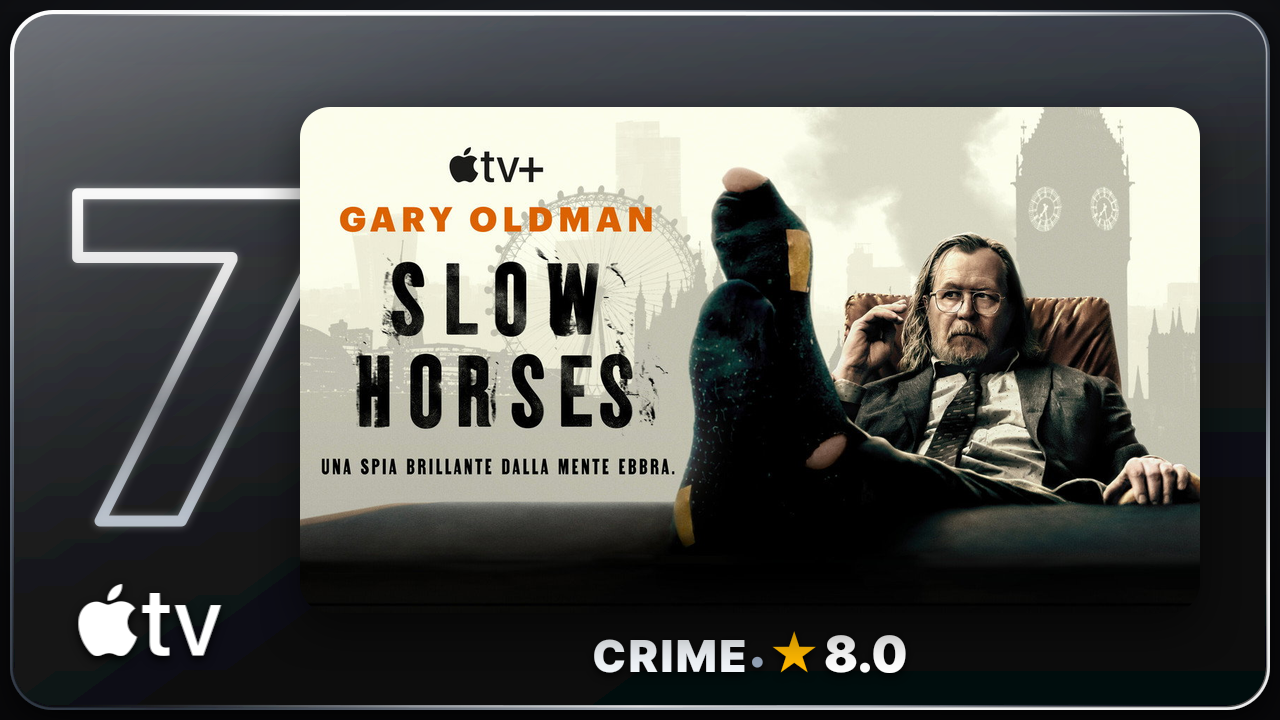
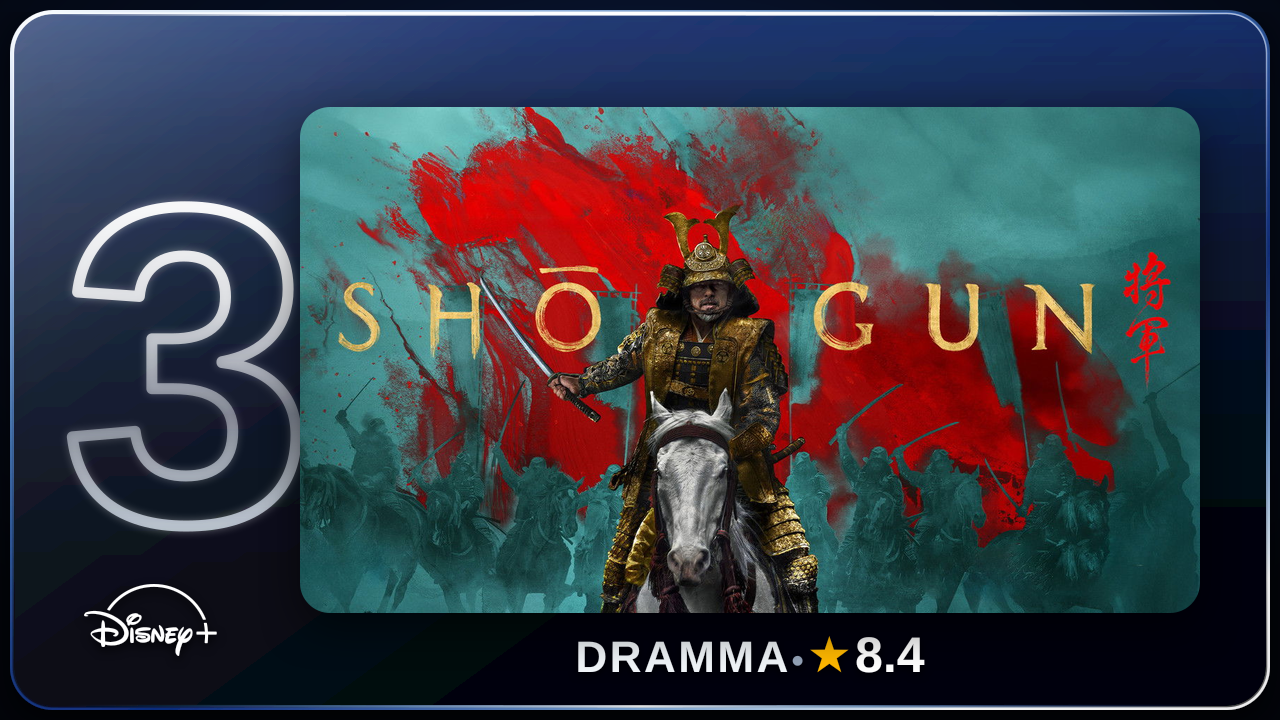
Aggiorna copertine di esempio in homepage con serie e numeri differenti (#1..#6)

diff --git a/public/index.html b/public/index.html
@@ -547,12 +547,12 @@
 
     <div class="band" aria-hidden="true"><div class="track" id="track"></div></div>
     <div class="covers" id="covers" aria-label="Esempi di copertine">
-      <figure class="cv"><img src="/examples/classic-landscape.png" alt="Copertina Normale orizzontale" decoding="async" /><figcaption><strong>Normale</strong>Orizzontale</figcaption></figure>
-      <figure class="cv"><img src="/examples/classic-poster.png" alt="Copertina Normale verticale" decoding="async" /><figcaption><strong>Normale</strong>Verticale</figcaption></figure>
-      <figure class="cv"><img src="/examples/provider-landscape.png" alt="Copertina Provider Glass orizzontale" decoding="async" /><figcaption><strong>Provider Glass</strong>Orizzontale</figcaption></figure>
-      <figure class="cv"><img src="/examples/provider-poster.png" alt="Copertina Provider Glass verticale" decoding="async" /><figcaption><strong>Provider Glass</strong>Verticale</figcaption></figure>
-      <figure class="cv"><img src="/examples/fresh-landscape.jpg?v=fresh-v5" alt="Copertina Fresh orizzontale" decoding="async" /><figcaption><strong>Fresh</strong>Orizzontale</figcaption></figure>
-      <figure class="cv"><img src="/examples/fresh-poster.jpg?v=fresh-v5" alt="Copertina Fresh verticale" decoding="async" /><figcaption><strong>Fresh</strong>Verticale</figcaption></figure>
+      <figure class="cv"><img src="/examples/classic-landscape.png?v=multi-v1" alt="Copertina Normale orizzontale" decoding="async" /><figcaption><strong>Normale</strong>Orizzontale</figcaption></figure>
+      <figure class="cv"><img src="/examples/classic-poster.png?v=multi-v1" alt="Copertina Normale verticale" decoding="async" /><figcaption><strong>Normale</strong>Verticale</figcaption></figure>
+      <figure class="cv"><img src="/examples/provider-landscape.png?v=multi-v1" alt="Copertina Provider Glass orizzontale" decoding="async" /><figcaption><strong>Provider Glass</strong>Orizzontale</figcaption></figure>
+      <figure class="cv"><img src="/examples/provider-poster.png?v=multi-v1" alt="Copertina Provider Glass verticale" decoding="async" /><figcaption><strong>Provider Glass</strong>Verticale</figcaption></figure>
+      <figure class="cv"><img src="/examples/fresh-landscape.jpg?v=multi-v1" alt="Copertina Fresh orizzontale" decoding="async" /><figcaption><strong>Fresh</strong>Orizzontale</figcaption></figure>
+      <figure class="cv"><img src="/examples/fresh-poster.jpg?v=multi-v1" alt="Copertina Fresh verticale" decoding="async" /><figcaption><strong>Fresh</strong>Verticale</figcaption></figure>
     </div>
 
     <section id="start">
